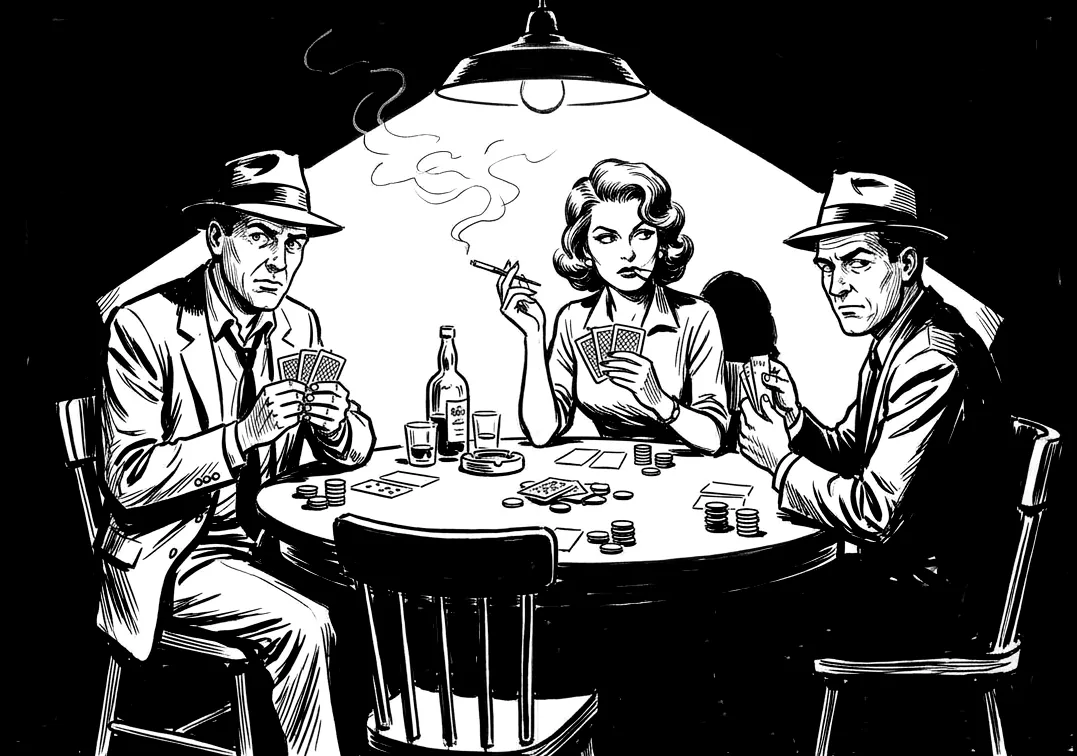
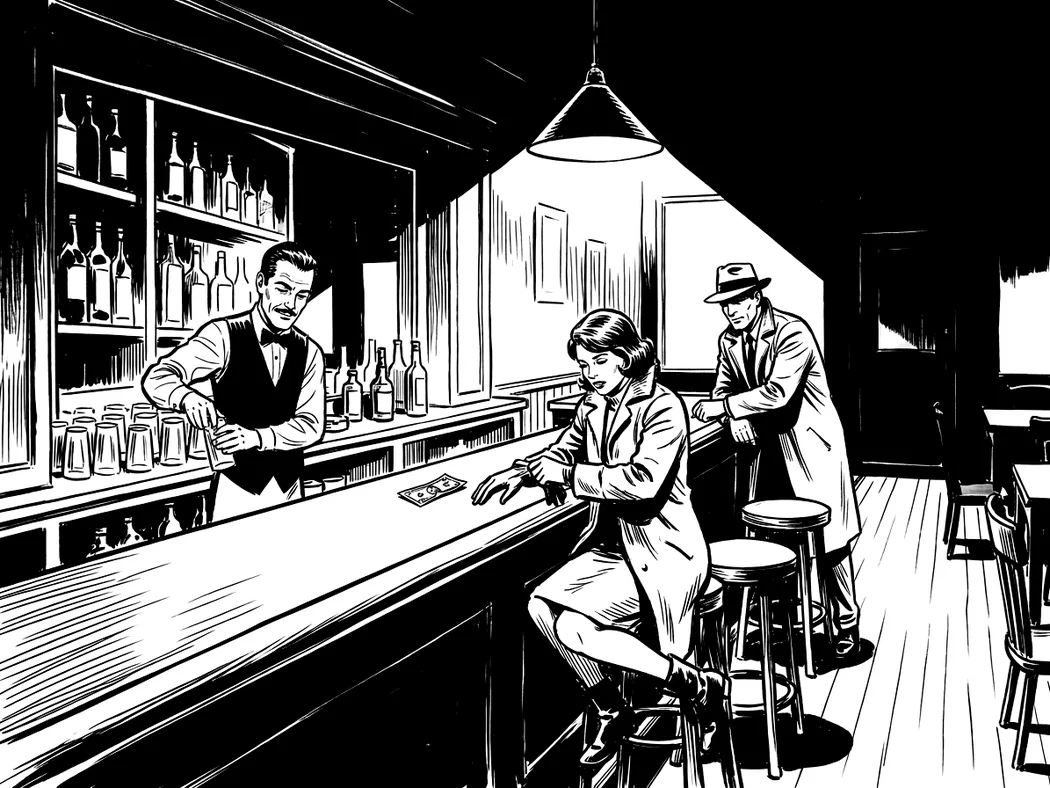
Ny bild till Gå med och lobbyn, i samma bar som Nytt spel
Gå med visar barens bakdörr i en regnig gränd, där någon väntar i
dörren. Lobbyn visar samma bar som skapa, nu med bartendern, en kvinna
på barstolen och en man vid disken. Nytt spel, Gå med och lobbyn hänger
på så sätt ihop (Jonas 2026-11-13). Båda är tagna fram med Gemini
(gemini-nano-banana-2.1) och klarar bildkontrollen.

Claude-Session: https://claude.ai/code/session_01X82C4AeSfxWupgtHZJGNeE

diff --git a/src/scenes/sceneImages.js b/src/scenes/sceneImages.js
@@ -68,9 +68,9 @@ import madmanWinsMan from './images/slut-galningen-man.webp';
 /** @typedef {{ src: string, alt: string, position: string }} SceneImage */
 
 export const SCENE_IMAGES = /** @type {const} */ ({
-  join: { src: join, alt: 'En mörk korridor med en dörr på glänt. Ljuset faller över golvet där ett papper ligger, och därinne står ett bord med en hatt och en rykande cigarett.', position: '50% 50%' },
+  join: { src: join, alt: 'En person i hatt står i en regnig gränd framför en bakdörr som har öppnats. Ljuset faller ut över de våta gatstenarna, och i dörren står någon och väntar.', position: '50% 50%' },
   create: { src: create, alt: 'En tom bar sent på kvällen med glas och flaskor på disken och en hatt på en barstol under en hängande lampa.', position: '50% 50%' },
-  lobby: { src: lobby, alt: 'Två män i hatt och en kvinna med en cigarett spelar kort runt ett runt bord under en hängande lampa i ett mörkt rum.', position: '50% 50%' },
+  lobby: { src: lobby, alt: 'En bar under en hängande lampa. Bartendern ställer fram glas, en kvinna i kappa sätter sig på en barstol med en sedel framför sig, och en man i hatt lutar sig mot disken bredvid henne.', position: '50% 50%' },
   roleHidden: { src: roleHidden, alt: 'En förseglad akt på ett skrivbord i lampljus, bredvid en askkopp med en rykande cigarett, en hatt och en revolver.', position: '50% 50%' },
   roleMafiaWoman: { src: roleMafiaWoman, alt: 'En kvinna i pälsstola och hatt med flor röker med cigarettmunstycke i en dörröppning en regnig natt.', position: '100% 30%' },
   roleMafiaMan: { src: roleMafiaMan, alt: 'En man i kritstrecksrandig kostym och hatt röker i en dörröppning en regnig natt.', position: '100% 30%' },

diff --git a/docs/bildsmak.md b/docs/bildsmak.md
@@ -111,7 +111,9 @@ När bildansvarig kan ta fram bilder själv (via Gemini) byts de här först, i
 den här ordningen:
 
 1. Gillar inte: `natt-detektiv-*`, `natt-lakare-*`, `roll-detektiv-*`,
-   `natt-maffia-1`–`3`, `ga-med`.
-2. `lobby`, så att den passar med de andra (Jonas 2026-11-13).
+   `natt-maffia-1`–`3`. (`ga-med` byttes 2026-11-13.)
+2. `lobby` byttes 2026-11-13 mot samma bar som `skapa`, och `ga-med` mot
+   barens bakdörr, så att Nytt spel, Gå med och lobbyn hänger ihop (Jonas
+   2026-11-13).
 3. Okej, men med för mycket grått enligt kontrollen. Kör
    `python3 scripts/kontrollera-bilder.py` för den aktuella listan.
